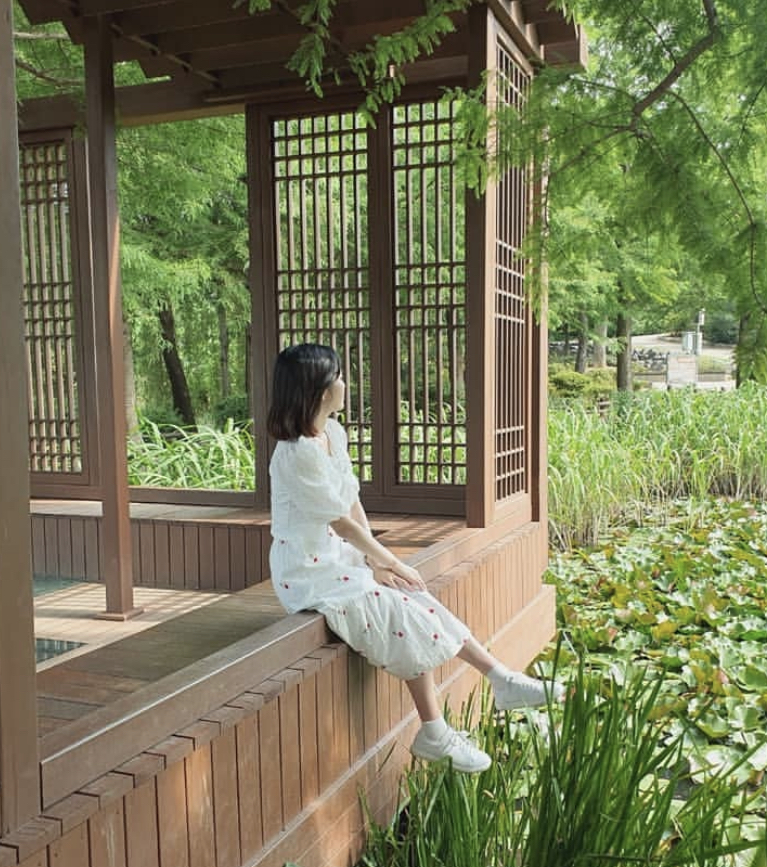
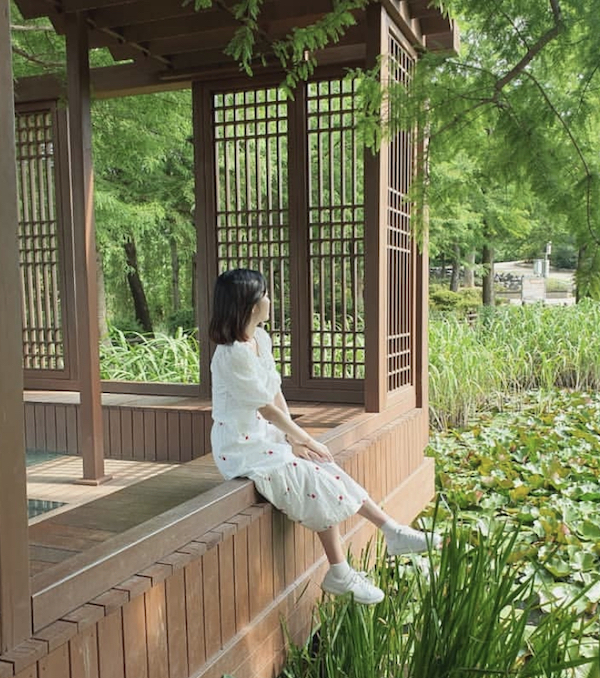
feat: 이미지 크기 조절을 통한 로딩 속도 개선

Changed region(s): [[0.63, 0.1858, 0.69, 0.5575], [0.66, 0.0929, 0.69, 0.1239]]

diff --git a/src/Storage/SeasonData.ts b/src/Storage/SeasonData.ts
@@ -1,33 +1,30 @@
 import { SeasonDataType } from "../types/imageCardType";
-import spring1 from "../assets/images/Spring/SpringMain.jpeg";
-import spring2 from "../../public/images/Spring/190401.jpeg";
 
-const defaultPath = "../src/assets/images";
 export const springData: SeasonDataType[] = [
   {
     title: "spring1",
-    imgUrl: `${defaultPath}/Spring/SpringMain.jpeg`,
+    imgUrl: `/images/Spring/SpringMain.jpeg`,
     date: "22.04.08",
     photoOwner: "시운",
     comment: "이예나 벚꽃 사진만 2년 연속으로 찍음",
   },
   {
     title: "spring2",
-    imgUrl: spring2,
+    imgUrl: `/images/Spring/190401.jpeg`,
     date: "19.04.01",
     photoOwner: "시운",
     comment: "뭔 사진인지 모르는데 내가 찍어줬음.. \n 너도 젊었구나...",
   },
   {
     title: "spring3",
-    imgUrl: `${defaultPath}/Spring/210402_2.jpeg`,
+    imgUrl: `/images/Spring/210402_2.jpeg`,
     date: "21.04.02",
     photoOwner: "시운",
     comment: "내가 사진은 잘찍어",
   },
   {
     title: "spring4",
-    imgUrl: `${defaultPath}/Spring/210523_2.jpeg`,
+    imgUrl: `/images/Spring/210523_2.jpeg`,
     date: "21.05.23",
     photoOwner: "시운",
     comment: `에버랜드 ${"\n"}
@@ -38,14 +35,14 @@ export const springData: SeasonDataType[] = [
 export const summerData: SeasonDataType[] = [
   {
     title: "summer1",
-    imgUrl: `${defaultPath}/Summer/SummerMain.jpeg`,
+    imgUrl: `/images/Summer/SummerMain.jpeg`,
     date: "21.07.23",
     photoOwner: "이예나 인스타",
     comment: "여름 같아서 가져옴",
   },
   {
     title: "summer2",
-    imgUrl: `${defaultPath}/Summer/200814.jpeg`,
+    imgUrl: `/images/Summer/200814.jpeg`,
     date: "20.08.14",
     photoOwner: "상호",
     comment:
@@ -54,28 +51,28 @@ export const summerData: SeasonDataType[] = [
   },
   {
     title: "summer3",
-    imgUrl: `${defaultPath}/Summer/SummerTogather.jpeg`,
+    imgUrl: `/images/Summer/SummerTogather.jpeg`,
     date: "2x.xx.xx",
     photoOwner: "민희",
     comment: "with 지희, 민희",
   },
   {
     title: "summer4",
-    imgUrl: `${defaultPath}/Summer/180710.jpeg`,
+    imgUrl: `/images/Summer/180710.jpeg`,
     date: "18.07.10",
     photoOwner: "볼링 소모임",
     comment: "볼링 소모임에서..",
   },
   {
     title: "summer5",
-    imgUrl: `${defaultPath}/Summer/180719.jpeg`,
+    imgUrl: `/images/Summer/180719.jpeg`,
     date: "18.07.19",
     photoOwner: "시운",
     comment: "나도 이 사진보고 놀램 무슨 조합이지..",
   },
   {
     title: "summer6",
-    imgUrl: `${defaultPath}/Summer/210603.jpg`,
+    imgUrl: `/images/Summer/210603.jpg`,
     date: "21.06.03",
     photoOwner: "수정",
     comment: `울 야물딱진 융소선배님 예나가 벌써 졸업이라니;;;;
@@ -86,28 +83,28 @@ export const summerData: SeasonDataType[] = [
 export const autumnData: SeasonDataType[] = [
   {
     title: "autumn1",
-    imgUrl: `${defaultPath}/Autumn/AutumnMain.jpeg`,
+    imgUrl: `/images/Autumn/AutumnMain.jpeg`,
     date: "20.10.25",
     photoOwner: "이예나 인스타",
     comment: "가을 감성이라 가져와 봤습니다.",
   },
   {
     title: "autumn2",
-    imgUrl: `${defaultPath}/Autumn/201102.jpeg`,
+    imgUrl: `/images/Autumn/201102.jpeg`,
     date: "20.11.02",
     photoOwner: "상호",
     comment: "나 군대 두번째 휴가 때 만나서 보드카페 간 날 얼굴 살벌하구나 예나야",
   },
   {
     title: "autumn3",
-    imgUrl: `${defaultPath}/Autumn/201105.jpeg`,
+    imgUrl: `/images/Autumn/201105.jpeg`,
     date: "20.11.05",
     photoOwner: "상호",
     comment: "두번째 휴가 복귀하는 날에 우리 집와서 집들이하고 배웅해준 날! 마지막까지 고마웠어",
   },
   {
     title: "autumn4",
-    imgUrl: `${defaultPath}/Autumn/210927.jpeg`,
+    imgUrl: `/images/Autumn/210927.jpeg`,
     date: "21.09.27",
     photoOwner: "상호",
     comment: "조기전역 나오자마자 가장 먼저 본 사람들 고맙고 재밌었어!",
@@ -117,17 +114,16 @@ export const autumnData: SeasonDataType[] = [
 export const winterData: SeasonDataType[] = [
   {
     title: "winter1",
-    imgUrl: `${defaultPath}/Winter/WinterMain.jpeg`,
+    imgUrl: `/images/Winter/WinterMain.jpeg`,
     date: "20.10.26",
     photoOwner: "이예나 인스타",
     comment: "겨울 감성이라 가져와 봤습니다.",
   },
   {
     title: "winter2",
-    imgUrl: `${defaultPath}/Winter/200112.jpeg`,
+    imgUrl: `/images/Winter/200112.jpeg`,
     date: "20.01.12",
     photoOwner: "상호",
     comment: "방탈출하고 밤새 보드게임해도 안 피곤했던 날.",
   },
-
 ];

diff --git a/src/pages/Comments.tsx b/src/pages/Comments.tsx
@@ -4,7 +4,7 @@ import { collection, getDocs, query, orderBy } from "firebase/firestore";
 import { db } from "../../firebase-config.js";
 import styled from "@emotion/styled";
 import Header from "../components/Header";
-import SpringBackground from "../assets/images/Spring/SpringBackground.jpeg";
+import SpringBackground from "../../public/images/Spring/SpringBackground.jpeg";
 import { useNavigate } from "react-router-dom";
 
 const Comments = () => {
@@ -35,10 +35,7 @@ const Comments = () => {
       <CommentArea>
         {comments.map((element) => {
           return (
-            <CommentContainer
-              key={element.id}
-              className={`chat chat-start`}
-            >
+            <CommentContainer key={element.id} className={`chat chat-start`}>
               <CommentOwner className={"chat-header"}>{element.name}</CommentOwner>
               <CommentContent
                 background={bgColors[Math.floor(Math.random() * (bgColors.length - 1))]}

diff --git a/src/pages/Home.tsx b/src/pages/Home.tsx
@@ -15,11 +15,11 @@ const Home = () => {
             <div>graduation</div>
           </TextArea>
           <ScrollArea>
-            <img src={MainImage} alt={"메인 이미지"} />
+            <img src={MainImage} alt={"메인 이미지"} loading={"lazy"} />
             <div>
               <span>
                 <label>Scroll</label>
-                <img src={WhiteArrowDown} alt={"스크롤 안내 아이콘"} loading={"lazy"}/>
+                <img src={WhiteArrowDown} alt={"스크롤 안내 아이콘"} loading={"lazy"} />
               </span>
             </div>
           </ScrollArea>
@@ -40,7 +40,7 @@ const Home = () => {
               </div>
             </div>
             <div className={"w-full"}>
-              <img src={NaviMainImg} alt={"메인 이미지"} loading={"lazy"}/>
+              <img src={NaviMainImg} alt={"메인 이미지"} loading={"lazy"} />
             </div>
             <div>
               <div>

diff --git a/src/pages/Spring.tsx b/src/pages/Spring.tsx
@@ -1,7 +1,6 @@
 import { useEffect, useRef } from "react";
 import "../assets/sakura/sakura.css";
 import FeedLayout from "../layout/FeedLayout";
-import styled from "@emotion/styled";
 import { sakura } from "./Gallery";
 import ImageCard from "../components/ImageCard";
 import { springData } from "../Storage/SeasonData";

diff --git a/src/pages/Loading.tsx b/src/pages/Loading.tsx
@@ -1,0 +1,5 @@
+const Loading = () => {
+  return <h1>로딩 중</h1>;
+};
+
+export default Loading;
